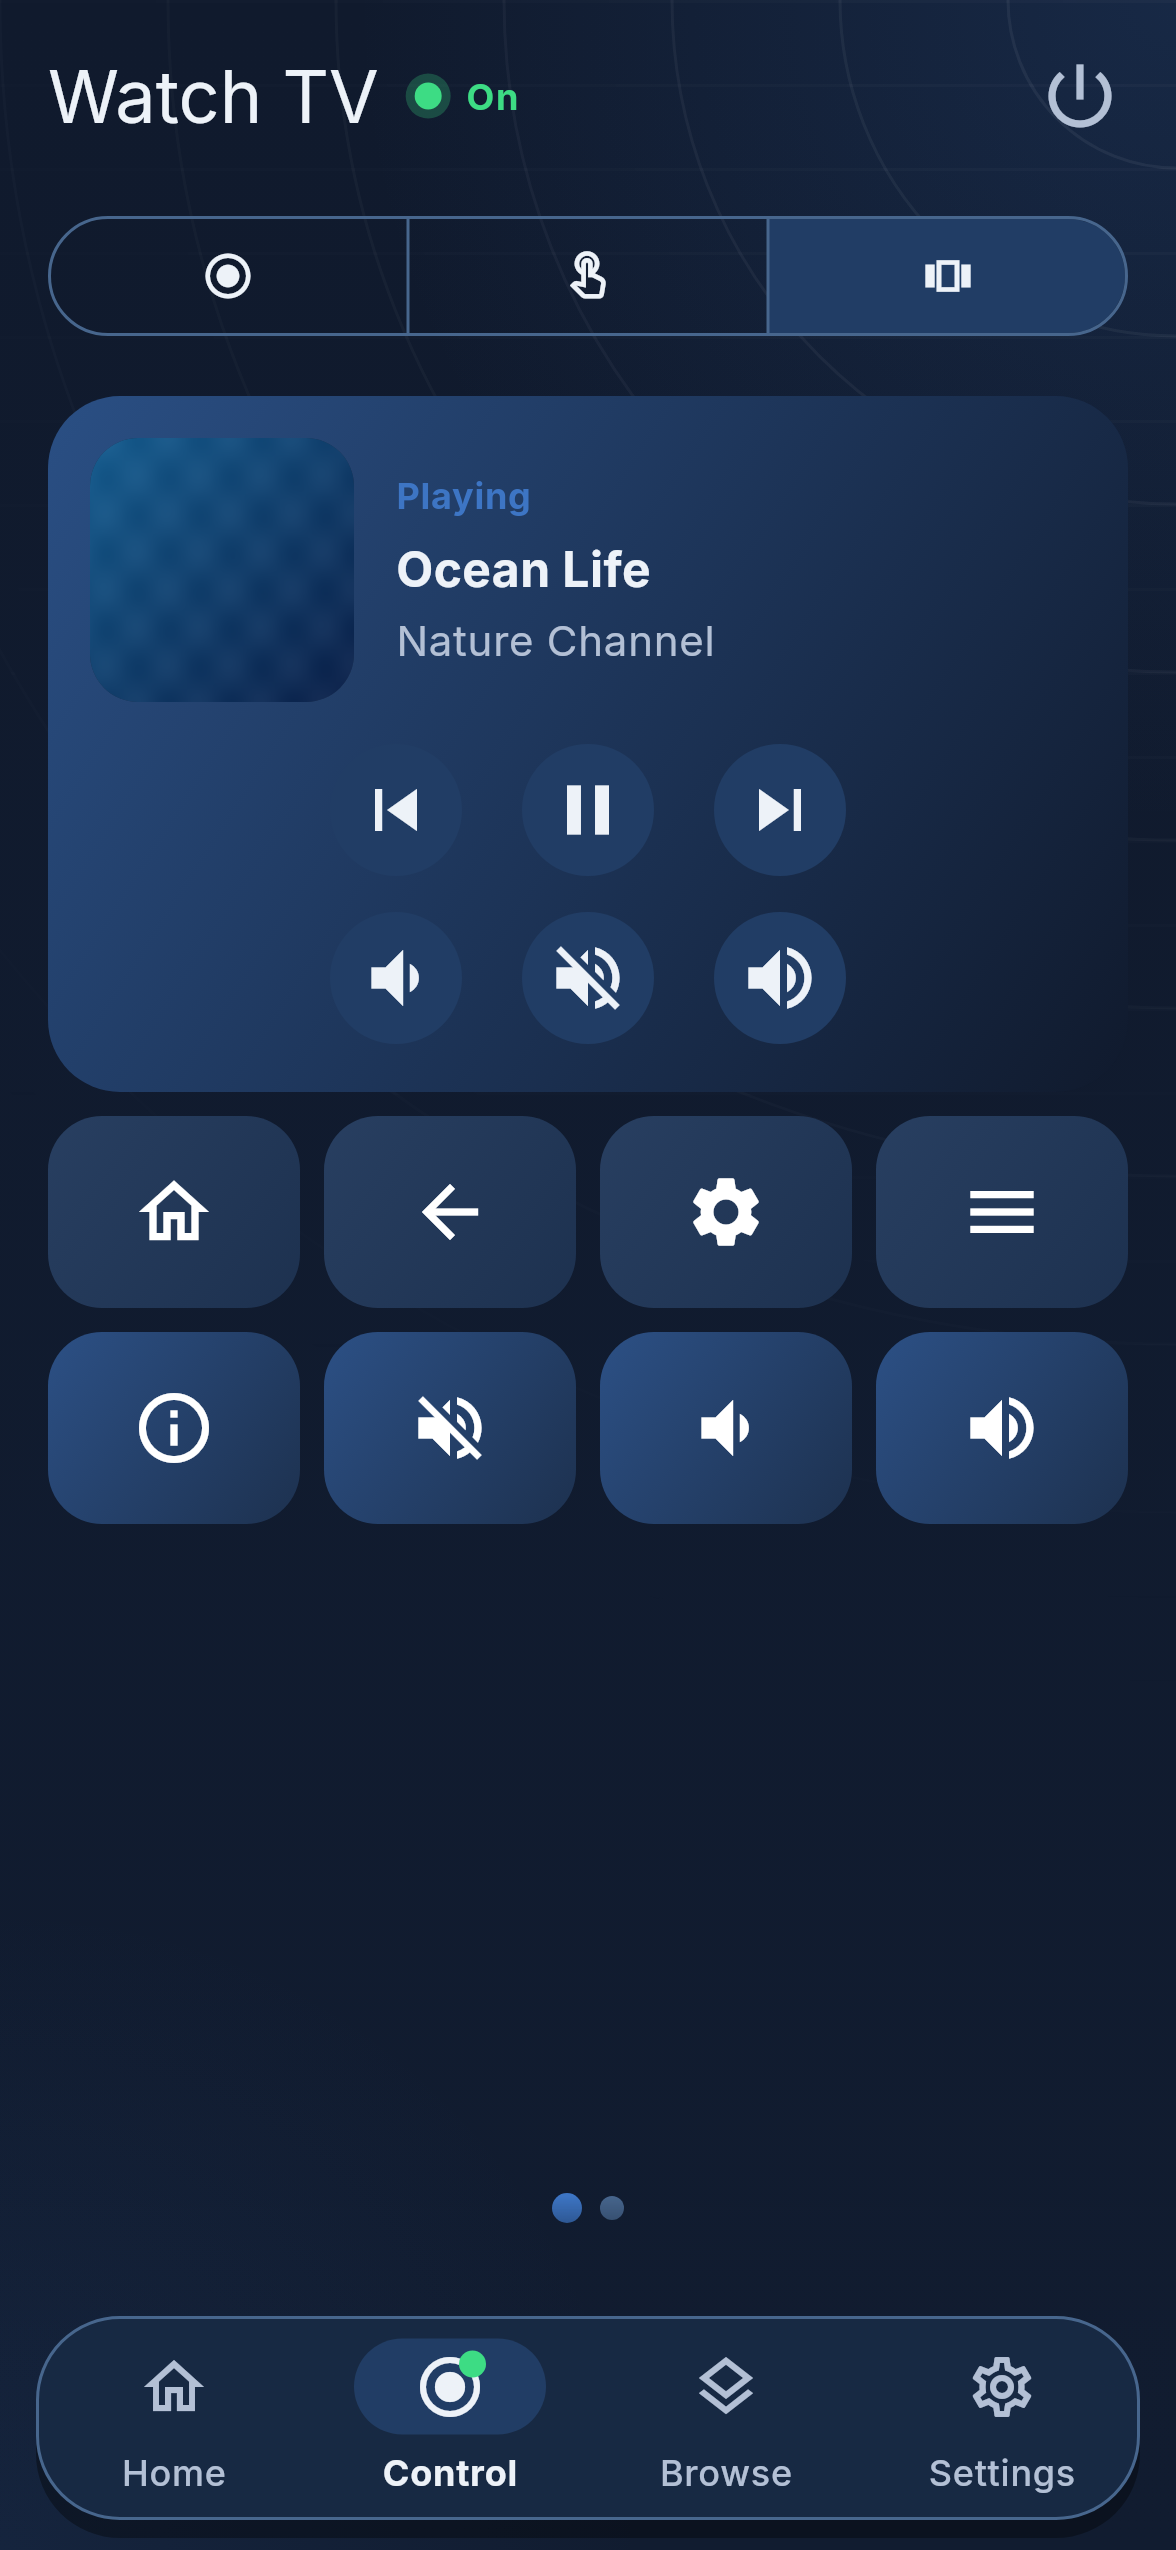
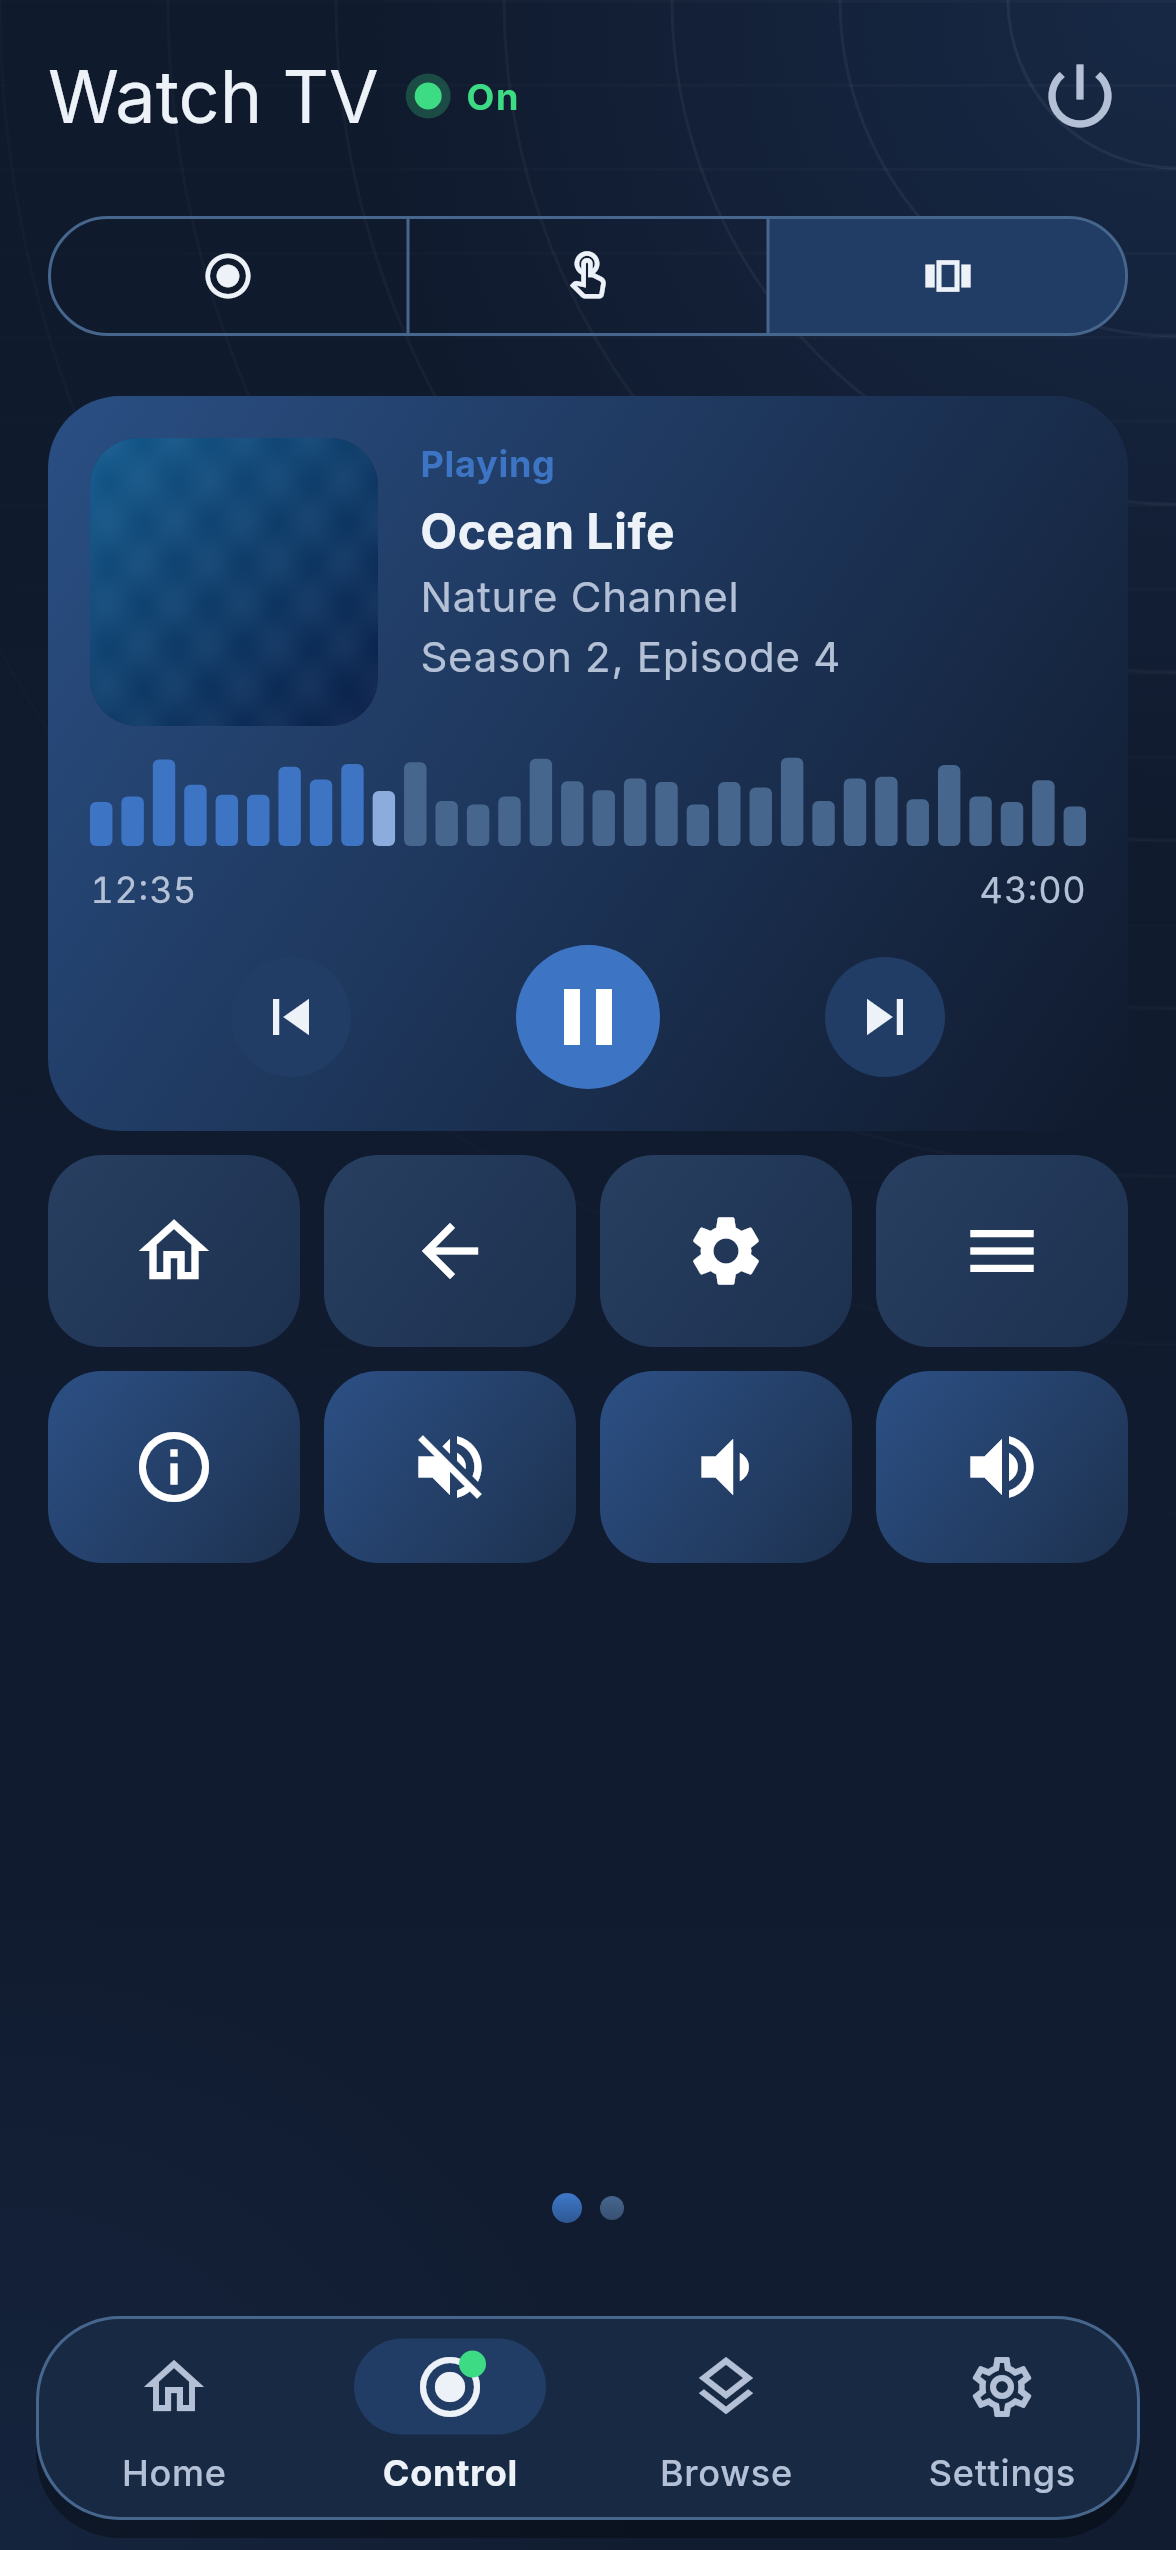
URUC 1.0.1: player screenshots and README

Changed region(s): [[0.0306, 0.1549, 0.9796, 0.6196]]

diff --git a/README.md b/README.md
@@ -7,7 +7,7 @@ This repository holds signed release builds only.
 <p>
 <img src="screenshots/home.png" width="220" alt="Home: the running activity with what is playing, Control, Pause and Off buttons, then the remote's Home pages as coloured sections, one open with its lights and their on and off switches">
 <img src="screenshots/pad.png" width="220" alt="Control, Pad: a direction pad with OK, Back, Home and Menu, volume and channel rockers, and the activity's own buttons">
-<img src="screenshots/pages.png" width="220" alt="Control, Pages: the activity's page from the remote, with the player card and a grid of icon buttons, and dots to swipe between pages">
+<img src="screenshots/pages.png" width="220" alt="Control, Pages: the activity's page from the remote, with the player card showing level bars for the place in the track, and a grid of icon buttons, and dots to swipe between pages">
 <img src="screenshots/camera.png" width="220" alt="Control, Pages: a camera filling the player card, with a button to open it full screen">
 <img src="screenshots/browse.png" width="220" alt="Browse, Entities: one search and filter field, then entities grouped by type with their state and power buttons">
 <img src="screenshots/settings.png" width="220" alt="Settings: Remotes, Appearance, Security, Status, Utilities and About cards, with Status open showing a battery ring and the connection, charge, charger and power mode">
@@ -48,6 +48,7 @@ With the Android SDK: `apksigner verify --print-certs uruc-<version>.apk`. The `
 - **Home:** the running activity sits on top with what it is playing, and Control, Play or Pause and Off. Below are the remote's own Home pages as coloured sections; open one to start an activity or switch a light. Sections you open stay open next time.
 - **Reorder:** long press a card's header on Home or in Settings and drag it. The order is kept on this phone only and the remote is not changed; a page added on the remote later goes to the end. Reset to Remote Order (Home) or Reset Order (Settings) puts it back.
 - **Control:** Pad, Touchpad and Pages. Pages shows the activity's pages from the remote, swiped left and right, with the same icons and buttons. With nothing running, Control lists your activities to start, with search, a filter by Home group and expand or collapse.
+- **Players:** a player on an activity page shows its picture, whether it is playing, the title on up to two lines (long press for all of it), the artist and album, and a row of level bars that light up to the place in the track, with the time played and the length. Previous, play or pause, next and the library share one row, and the card leaves out any volume or mute button the page already has for that player. The bars' heights are a pattern of their own for each track, not the sound.
 - **Cameras:** a camera on an activity page fills the player card. Tap it to open it full screen; it follows the live picture and you can pinch to zoom.
 - **Browse:** every entity on the remote by type, and every integration with its state, each with one search and filter field.
 - **Status:** Settings, Status shows the remote's battery as a ring, its connection, charge, charger and power mode, and its model and OS.
